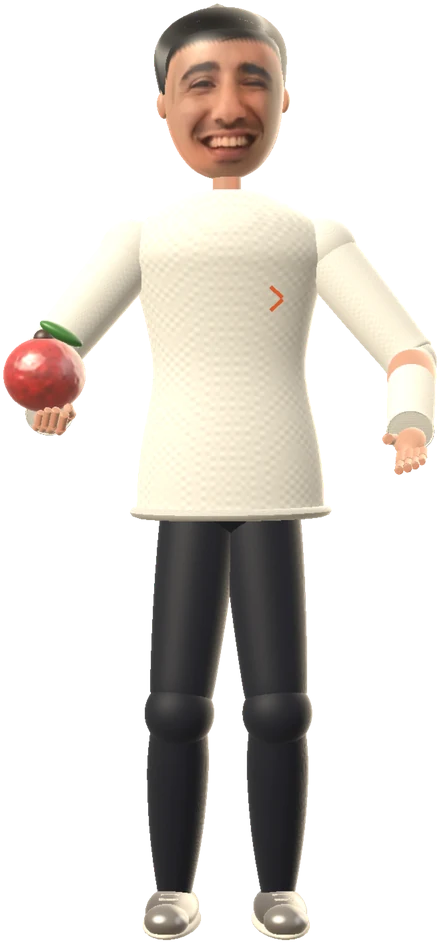
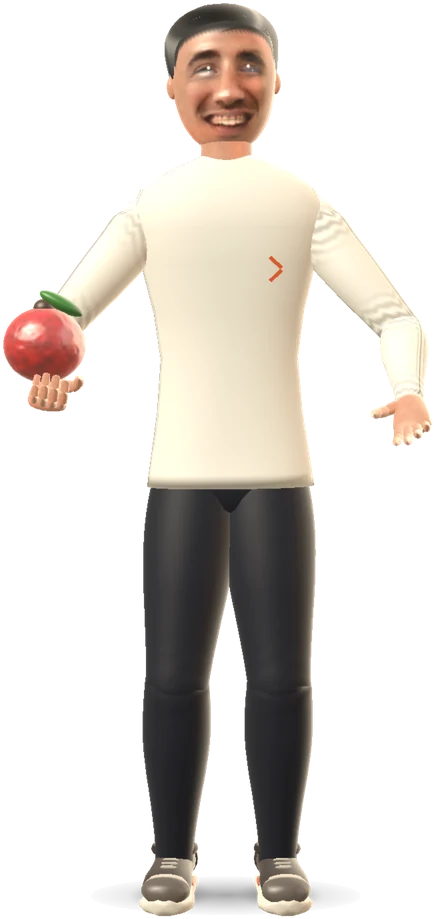
percorso: giunzioni di ginocchia e gomiti senza fessure, maglia che copre i fianchi, ciocche dei capelli, ritagli dei professionisti rifatti e README
Claude-Session: https://claude.ai/code/session_01Dkgg7PSUWnhATau7aG1SC2

Changed region(s): [[0.2995, 0.0, 1.0, 1.0], [0.0, 0.2133, 0.3894, 0.4875]]

diff --git a/public/percorso/index.html b/public/percorso/index.html
@@ -102,23 +102,23 @@
       <p class="lead"><strong class="motto">Il tuo benessere a 360°.</strong> Conta anche ciò che mangi e come recuperi. Accanto ai trainer trovi un nutrizionista, un osteopata e un fisioterapista.</p>
     </div>
     <ol class="pros">
-      <li class="pro" style="--ih:943">
-        <div class="pro-fig"><img src="img/pro-nutrizionista.webp" width="440" height="943" alt="" loading="lazy" decoding="async"></div>
+      <li class="pro" style="--ih:919">
+        <div class="pro-fig"><img src="img/pro-nutrizionista.webp" width="434" height="919" alt="" loading="lazy" decoding="async"></div>
         <div class="pro-node" aria-hidden="true"><i></i><u></u></div>
         <h3>Nutrizionista</h3>
         <p class="pro-hook">Mangi per il tuo obiettivo.</p>
         <p class="pro-text">Un piano alimentare su misura per te: cosa mangiare prima, durante e dopo l'allenamento perché renda di più.</p>
         <p class="pro-name">Con il Dott. Maurizio Calabrò, nutrizionista sportivo</p>
       </li>
-      <li class="pro" style="--ih:980">
-        <div class="pro-fig"><img src="img/pro-osteopata.webp" width="396" height="980" alt="" loading="lazy" decoding="async"></div>
+      <li class="pro" style="--ih:986">
+        <div class="pro-fig"><img src="img/pro-osteopata.webp" width="392" height="986" alt="" loading="lazy" decoding="async"></div>
         <div class="pro-node" aria-hidden="true"><i></i><u></u></div>
         <h3>Osteopata</h3>
         <p class="pro-hook">Ti muovi con più libertà.</p>
         <p class="pro-text">Con un approccio manuale lavora su tensioni, rigidità e mobilità, per aiutarti a muoverti meglio, dentro e fuori dall'allenamento.</p>
       </li>
-      <li class="pro" style="--ih:914">
-        <div class="pro-fig"><img src="img/pro-fisioterapista.webp" width="432" height="914" alt="" loading="lazy" decoding="async"></div>
+      <li class="pro" style="--ih:893">
+        <div class="pro-fig"><img src="img/pro-fisioterapista.webp" width="440" height="893" alt="" loading="lazy" decoding="async"></div>
         <div class="pro-node" aria-hidden="true"><i></i><u></u></div>
         <h3>Fisioterapista</h3>
         <p class="pro-hook">Torni ad allenarti con fiducia.</p>

diff --git a/public/percorso/percorso.css b/public/percorso/percorso.css
@@ -107,7 +107,7 @@ h1 em, .finale h2 em { color: var(--orange); }
 /* tre tappe unite da una linea, come l'avanzamento del percorso: ogni figura sta sopra la sua tappa, i testi stanno sotto, mai sulla linea */
 .pros { --gap: clamp(1.5rem, 4vw, 4rem); --u: min(.029rem, .06vw); display: grid; grid-template-columns: repeat(3, minmax(0, 1fr)); gap: var(--gap); margin-top: clamp(2.6rem, 6vw, 4.5rem); }
 .pro { position: relative; display: flex; flex-direction: column; align-items: center; text-align: center; }
-.pro-fig { display: flex; align-items: flex-end; justify-content: center; width: 100%; height: calc(980 * var(--u)); }
+.pro-fig { display: flex; align-items: flex-end; justify-content: center; width: 100%; height: calc(990 * var(--u)); }
 .pro-fig img { width: auto; height: calc(var(--ih) * var(--u)); max-width: 100%; filter: drop-shadow(0 0 1.3rem rgba(232, 96, 40, .3)) drop-shadow(0 .5rem 1rem rgba(0, 0, 0, .5)); }
 .pro-node { position: relative; align-self: stretch; height: .95rem; margin-top: 1.1rem; }
 .pro-node::before, .pro-node u { content: ""; position: absolute; top: calc(.475rem - 1px); height: 2px; left: calc(var(--gap) / -2); right: calc(var(--gap) / -2); }

diff --git a/README.md b/README.md
@@ -160,4 +160,4 @@ tests/             prove delle regole e dei dati demo
 
 Font Big Shoulders e Instrument Sans (vetrina) e Montserrat (app), tutti con licenza SIL Open Font License, inclusi in `public/fonts/`.
 
-**Il percorso in 3D** (`public/percorso/`, indirizzo `/percorso/`; proposta sul branch `kuko-3d-percorso`, il sito semplice `/sito` resta com'è). Un solo cliente 3D attraversa tre sale (Allenamento personale con Valerio, Pilates con Chiara, Allenamento funzionale di gruppo) mentre si scorre; tra una sala e l'altra gli attrezzi si trasformano in forme geometriche e si ricompongono. Nessuna libreria e nessuna compilazione: motore WebGL2 in `js/` (`gl.js`, `engine.js`, `light.js`, `cine.js`), scena in `js/scene.js`, sale e coreografia in `js/world.js`, personaggi in `js/people.js`, attrezzi in `js/props.js`, scorrimento e testi in `js/main.js`. Senza 3D (riduci movimento, risparmio dati, WebGL assente, `?static`) la pagina diventa una pagina normale con le foto vere. Parametri utili: `?live` forza il 3D, `?static` lo spegne, `?cine=0` toglie la post-produzione, `?ombre=0` le ombre. In basso a destra, in Personal e in Pilates, c'è il ritaglio di Valerio e di Chiara (`img/ritaglio-*.webp`, generati da `scripts/percorso-ritagli.py` dalle foto in `public/img/`: per cambiare foto si modifica l'elenco in cima allo script e lo si rilancia). Dopo il finale la pagina continua con la sezione "Benessere a 360°" (`#benessere`: nutrizionista, osteopata e fisioterapista, tre figure 3D sopra una linea con tre tappe, come l'avanzamento in alto; i testi stanno sotto la linea, mai sopra) e poi con il blocco Instagram (le stesse due copertine dei reel della vetrina) e il piede. Tutti i testi della pagina e della scena (cartelli, timer) sono in italiano. Le tre figure della sezione sono ritagli con trasparenza (`img/pro-*.webp`) delle stesse persone 3D, disegnate dal motore in modalità ritratto: `?live&cine=0&ritratti=nutrizionista|osteopata|fisioterapista&sfondo=000|fff` (una persona ferma su fondo nero o bianco; si scattano le due versioni e `scripts/percorso-professionisti.py <cartella>` ricava la trasparenza dalla differenza). Il nutrizionista è il Dott. Maurizio Calabrò, con il volto preso dalla foto del sito (`public/img/nutrizionista.jpg`); osteopata e fisioterapista non hanno ancora nome né foto (volti d'invenzione) e i loro testi sono quelli generici di `src/data/professionals.json`: da far confermare ai professionisti prima di pubblicare. Il motto "Il tuo benessere a 360°" è nel hero, nel finale e nelle anteprime. I volti dei personaggi 3D si rigenerano con `scripts/percorso-visi.py` dalle foto in `public/img/` (anche solo alcuni: `python3 scripts/percorso-visi.py calabro`); i capelli sono un guscio sottile sulla testa con attaccatura dipinta sul viso, così si fondono con la faccia; i personaggi sono procedurali e si possono sostituire con modelli `.glb`. Prima di pubblicarla: ok dei due trainer a usare il proprio volto, prova su telefoni veri, numero WhatsApp (lo stesso di `vetrina/site.json`).
+**Il percorso in 3D** (`public/percorso/`, indirizzo `/percorso/`; proposta sul branch `kuko-3d-percorso`, il sito semplice `/sito` resta com'è). Un solo cliente 3D attraversa tre sale (Allenamento personale con Valerio, Pilates con Chiara, Allenamento funzionale di gruppo) mentre si scorre; tra una sala e l'altra gli attrezzi si trasformano in forme geometriche e si ricompongono. Nessuna libreria e nessuna compilazione: motore WebGL2 in `js/` (`gl.js`, `engine.js`, `light.js`, `cine.js`), scena in `js/scene.js`, sale e coreografia in `js/world.js`, personaggi in `js/people.js`, attrezzi in `js/props.js`, scorrimento e testi in `js/main.js`. Senza 3D (riduci movimento, risparmio dati, WebGL assente, `?static`) la pagina diventa una pagina normale con le foto vere. Parametri utili: `?live` forza il 3D, `?static` lo spegne, `?cine=0` toglie la post-produzione, `?ombre=0` le ombre. In basso a destra, in Personal e in Pilates, c'è il ritaglio di Valerio e di Chiara (`img/ritaglio-*.webp`, generati da `scripts/percorso-ritagli.py` dalle foto in `public/img/`: per cambiare foto si modifica l'elenco in cima allo script e lo si rilancia). Dopo il finale la pagina continua con la sezione "Benessere a 360°" (`#benessere`: nutrizionista, osteopata e fisioterapista, tre figure 3D sopra una linea con tre tappe, come l'avanzamento in alto; i testi stanno sotto la linea, mai sopra) e poi con il blocco Instagram (le stesse due copertine dei reel della vetrina) e il piede. Tutti i testi della pagina e della scena (cartelli, timer) sono in italiano. Le tre figure della sezione sono ritagli con trasparenza (`img/pro-*.webp`) delle stesse persone 3D, disegnate dal motore in modalità ritratto: `?live&cine=0&ritratti=nutrizionista|osteopata|fisioterapista&sfondo=000|fff` (una persona ferma su fondo nero o bianco; si scattano le due versioni e `scripts/percorso-professionisti.py <cartella>` ricava la trasparenza dalla differenza). Il nutrizionista è il Dott. Maurizio Calabrò, con il volto preso dalla foto del sito (`public/img/nutrizionista.jpg`); osteopata e fisioterapista non hanno ancora nome né foto (volti d'invenzione) e i loro testi sono quelli generici di `src/data/professionals.json`: da far confermare ai professionisti prima di pubblicare. Il motto "Il tuo benessere a 360°" è nel hero, nel finale e nelle anteprime. I volti dei personaggi 3D si rigenerano con `scripts/percorso-visi.py` dalle foto in `public/img/` (anche solo alcuni: `python3 scripts/percorso-visi.py calabro`); i capelli sono un guscio sottile sulla testa con attaccatura dipinta sul viso, così si fondono con la faccia; i personaggi sono procedurali e si possono sostituire con modelli `.glb`. **Personaggi semi-realistici** (`js/body.js` + `js/people.js`): il corpo non è più fatto di capsule ma di volumi modellati a sezioni (`loft`: spalle con trapezio e deltoide, braccia con bicipite e avambraccio, mani con tre falangi per dito, cosce e polpacci con ginocchio, collo, bacino), tutti in proporzione tra loro (testa più piccola, tronco a V); i segmenti si sovrappongono alle articolazioni (coscia sul polpaccio, braccio sull'avambraccio) per non lasciare fessure, e le sfere delle articolazioni restano un poco più piccole delle estremità, altrimenti le superfici litigano. Gli abiti sono lo stesso corpo ingrandito di poco, con la lunghezza data da un taglio nello shader (`uClip`): tessuto con cuciture piatte, pieghe che crescono con la flessione dell'articolazione, trama in unità di mondo; la maglia ha l'orlo che copre i fianchi della singola persona (`B.shirtFor`). Le scarpe sono modellate (suola, tomaia, puntale, tallone, lacci, righe). La pelle ha pori e arrossamenti in unità di mondo (`uObjS`) e la luce ha, oltre a chiave e controluce, una luce laterale arancione (`side` in `MOOD`, `SIDEDIR` in `light.js`) e ombre di contatto morbide sotto i piedi (`X.contact`). Il volto è una griglia sulla testa con rilievo di naso, labbra, zigomi e arcate, occhi con riflessi (finestra della luce principale), battito di ciglia e sorriso leggero (`uExp`); i capelli ricci di Valerio sono ciocche a spirale (`sweep` lungo un'elica), quelli lunghi di Chiara hanno onde e rilievo a ciocche. Per guardare un personaggio da vicino: `?live&cine=0&ritratti=valerio|chiara|cliente|gruppo&giro=<angolo>&sfondo=<hex>` (nelle inquadrature fisse il battito di ciglia è spento). Prima di pubblicarla: ok dei due trainer a usare il proprio volto, prova su telefoni veri, numero WhatsApp (lo stesso di `vetrina/site.json`).
